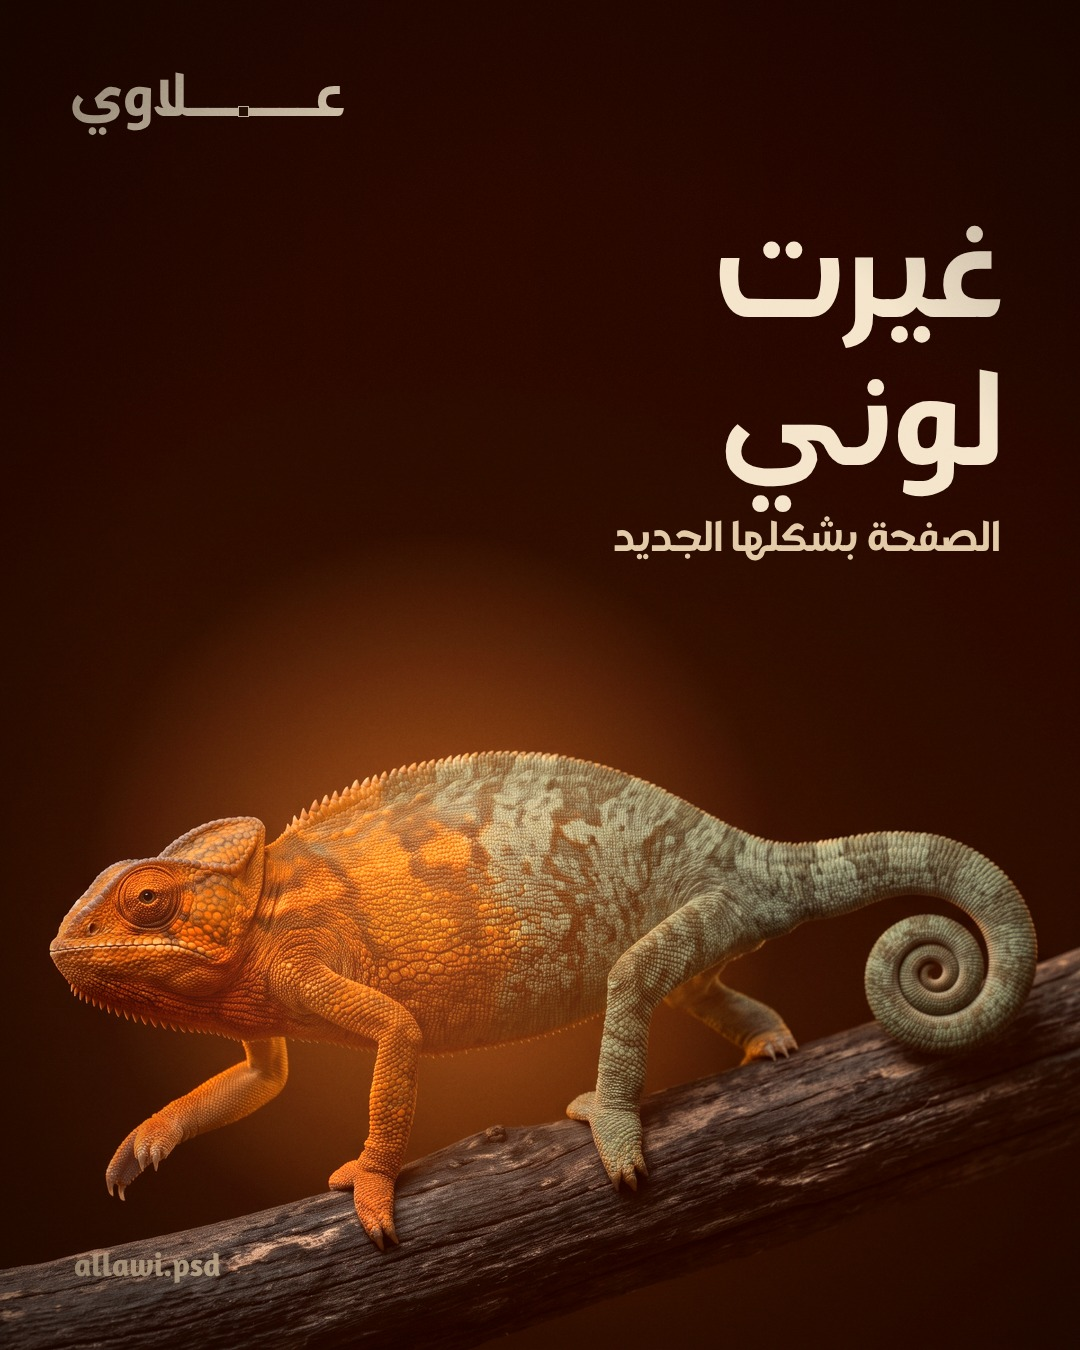
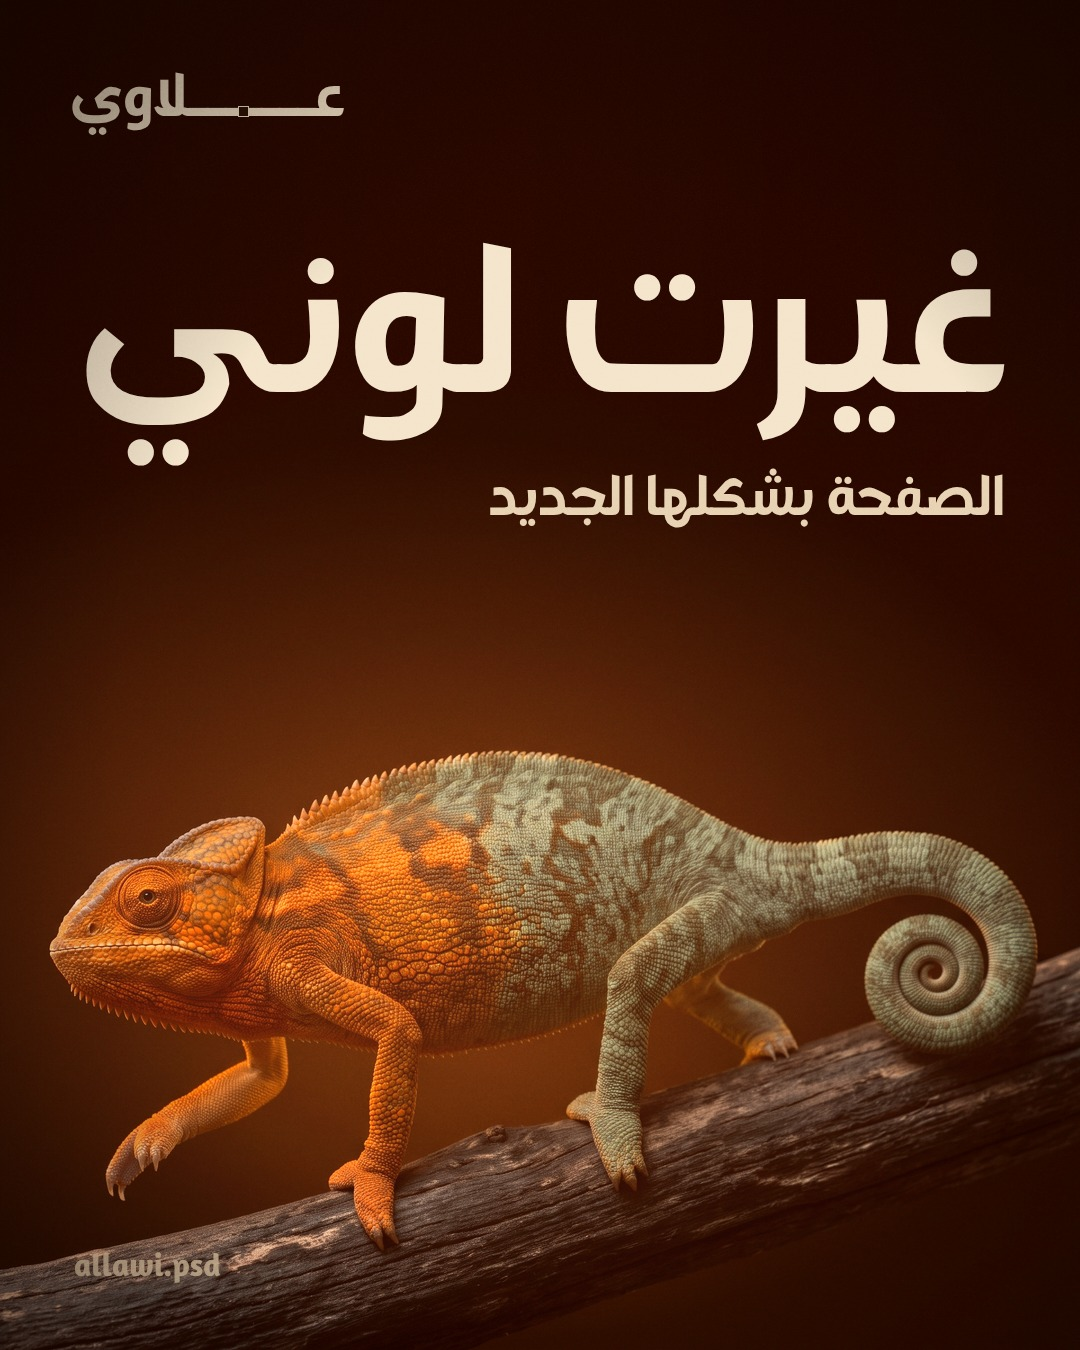
Rebrand carousel: big one-line headlines, softer light

diff --git a/marketing/rebrand/carousel.html b/marketing/rebrand/carousel.html
@@ -11,13 +11,13 @@
   .plate { inset:0; width:1080px; height:1350px }
 
   /* a warm light thrown on the backdrop behind the subject, broken up by the paper so it is not an even disc */
-  .lamp { inset:0; background:radial-gradient(ellipse 46% 38% at var(--lx) var(--ly), rgba(255,118,40,.55), rgba(255,118,40,0) 70%);
+  .lamp { inset:0; background:radial-gradient(ellipse 85% 45% at var(--lx) var(--ly), rgba(255,118,40,.3), rgba(255,118,40,0) 75%);
     mix-blend-mode:screen; -webkit-mask:url(../ig-highlights/assets/img/newsprint.jpg) var(--mx) var(--my)/1800px; mask:url(../ig-highlights/assets/img/newsprint.jpg) var(--mx) var(--my)/1800px }
 
   /* one headline in two lines and one quiet line under it; the orange comes from the photo */
-  .head { right:76px; direction:rtl; text-align:right; white-space:nowrap; font-size:132px; line-height:1.12; color:#f4e5cc }
-  .head span { display:block }
-  .line { right:80px; direction:rtl; text-align:right; font-size:42px; line-height:1.4; color:#e3cba8 }
+  .head { right:70px; direction:rtl; text-align:right; white-space:nowrap; font-size:220px; line-height:1.05; color:#f4e5cc }
+  .head span { display:inline }
+  .line { right:76px; direction:rtl; text-align:right; font-size:56px; line-height:1.35; color:#e8d3b4 }
   .wm { left:70px; top:62px; font-size:60px; line-height:1; color:#f3e3c8; direction:rtl; white-space:nowrap; z-index:5 }
   .wm .h { position:absolute; width:.19em; height:.19em; border:.032em solid currentColor; background:#2a1007 }
   .handle { font-size:32px; color:#e3cba8; direction:ltr; opacity:.85 }
@@ -27,11 +27,11 @@
   .grain { inset:0; background:url(../ig-highlights/assets/img/grain.png) 0 0/512px; mix-blend-mode:overlay; opacity:.12; z-index:9 }
 
   #s1 { --lx:40%; --ly:66%; --mx:-300px; --my:-200px }
-  #s1 .head { top:190px } #s1 .line { top:505px }
+  #s1 .head { top:200px } #s1 .line { top:455px }
   #s2 { --lx:30%; --ly:62%; --mx:-900px; --my:-500px }
-  #s2 .head { top:150px } #s2 .line { top:465px }
+  #s2 .head { top:180px } #s2 .line { top:420px }
   #s3 { --lx:40%; --ly:74%; --mx:-600px; --my:-1000px }
-  #s3 .head { top:220px } #s3 .line { top:535px }
+  #s3 .head { top:260px } #s3 .line { top:505px }
   .handle { left:74px; bottom:56px }
 </style>
 </head>
@@ -40,7 +40,7 @@
 <div class="art" id="s1">
   <img class="plate" src="img/plate-chameleon-1.png" alt="">
   <div class="lamp"></div>
-  <div class="head">غيرت<span>لوني</span></div>
+  <div class="head">غيرت <span>لوني</span></div>
   <div class="line">الصفحة بشكلها الجديد</div>
   <span class="wm"><span class="t">عـــــــلاوي</span><span class="h"></span></span>
   <div class="handle">allawi.psd</div>
@@ -50,7 +50,7 @@
 <div class="art" id="s2">
   <img class="plate" src="img/plate-chameleon-2.png" alt="">
   <div class="lamp"></div>
-  <div class="head">شنو اسوي<span>هنا</span></div>
+  <div class="head">شنو اسوي <span>هنا</span></div>
   <div class="line">بوستات، اعلانات، ريلز موشن وهويات</div>
   <span class="wm"><span class="t">عـــــــلاوي</span><span class="h"></span></span>
   <div class="handle">allawi.psd</div>
@@ -60,7 +60,7 @@
 <div class="art" id="s3">
   <img class="plate" src="img/plate-chameleon-3.png" alt="">
   <div class="lamp"></div>
-  <div class="head">دزلي<span>بالخاص</span></div>
+  <div class="head">دزلي <span>بالخاص</span></div>
   <div class="line">كلي شنو تبيع، وارجعلك بفكرة</div>
   <span class="wm"><span class="t">عـــــــلاوي</span><span class="h"></span></span>
   <div class="handle">allawi.psd</div>
@@ -84,6 +84,10 @@ Promise.all([document.fonts.load("200px Sahabah", 'علاوي'), ...imgs]).then(
     const base = m.getBoundingClientRect().top - box.top; m.remove();
     h.style.left = (k.left - box.left + k.width / 2 - fs * .095) + 'px';
     h.style.top = (base + fs * K - fs * .095) + 'px';
+  });
+  document.querySelectorAll('.head').forEach((h) => {
+    let fs = 220; h.style.fontSize = fs + 'px';
+    while (h.getBoundingClientRect().width > 940 && fs > 100) { fs -= 2; h.style.fontSize = fs + 'px'; }
   });
   setTimeout(() => { document.body.dataset.ready = '1'; }, 300);
 });

diff --git a/marketing/rebrand/README.md b/marketing/rebrand/README.md
@@ -24,7 +24,8 @@ around the subject, the wordmark small in the top corner.
   user made from my prompts, saved as pixels only (`img/chameleon-<n>-src.jpg`).
 - The user found the first build (a photo with a text block above it) low effort, then found a busier version (huge
   words behind the cut-out animal, «لوني» filled with its skin, text blocks around it) worse: "too much at once". The
-  version that stands: one headline in two lines and one quiet line per slide, all clear of the animal, on a warm
+  version that stands (the user found two-line small headlines "too small and weird"): one big one-line headline
+  sized to the width and one line under it per slide, all clear of the animal, on a warm
   light thrown on the backdrop and broken by paper texture, with a vignette and grain over everything. The headlines
   stay one colour (no orange last word); the orange comes from the photos.
 - Build: `python3 prep.py chameleon-1 420 2340` (`chameleon-2 560 2360`, `chameleon-3 200 2400`) grades each plate;
